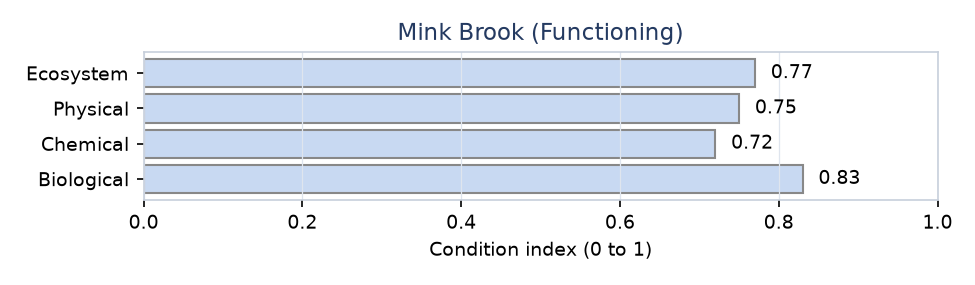
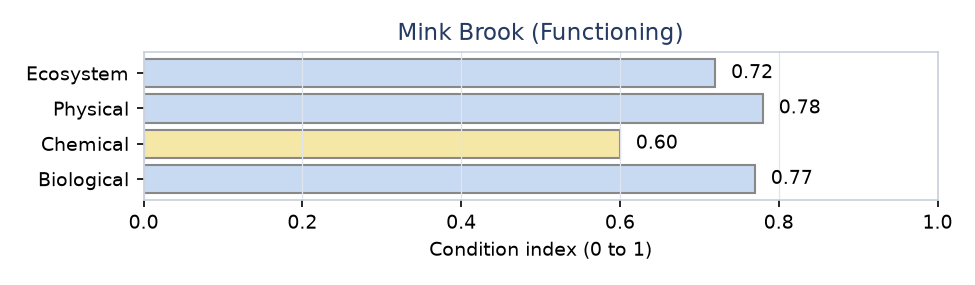
easi: regenerate documentation assets from the 16 September 2026 replay
build_doc_assets.py adds the Jemez River example summary, and the generated
validation tables and figures now come from the replay of the 17 verification
sites under the frozen criteria (method digest b2e3033116e3). The EASI
walkthrough reference section is regenerated from the catalog, and two site
pages drop wording that predates the revision.

Changed region(s): [[0.1231, 0.1965, 0.8615, 0.5614], [0.7692, 0.5614, 0.8923, 0.7018]]

diff --git a/apps/easi/scripts/build_doc_assets.py b/apps/easi/scripts/build_doc_assets.py
@@ -71,6 +71,7 @@ PHOTOS = {  # source filename in docs/Verification Sites -> figures/ name
 EXAMPLE_REPORTS = [
     ("MB", "Mink Brook", "example_high.png"),
     ("CC", "Cowart Creek", "example_low.png"),
+    ("JR", "Jemez River", "example_mid.png"),
 ]
 
 

diff --git a/docs/computation-engines.md b/docs/computation-engines.md
@@ -67,7 +67,7 @@ is resolved. Coverage toggles do not trigger lookup or affect readiness.
 
 | Tier | App | Policy |
 |---|---|---|
-| Screening | EASI | Within 150 ft of an NHDPlus V2 reach, the StreamCat lookup engine supplies watershed metrics in seconds. Elsewhere the STAF site engine calculates the HR reach watershed. Reach-keyed metrics, including low flow, substrate, and biological integrity, can use the nearest StreamCat reach downstream; their source details include the routed distance and drainage-area ratio. If the engine cannot compute the watershed, the watershed metrics are unavailable with guidance, never a stand-in. |
+| Screening | EASI | Within 150 ft of an NHDPlus V2 reach, the StreamCat lookup engine supplies watershed metrics in seconds. Elsewhere the STAF site engine calculates the HR reach watershed. Reach-keyed metrics, including the modeled benthic probability and the integrity fallbacks, can use the nearest StreamCat reach downstream; their source details include the routed distance and drainage-area ratio. If the engine cannot compute the watershed, the watershed metrics are unavailable with guidance, never a stand-in. |
 | Rapid | SFARI | Every click snaps to the high-resolution NHD. The site engine computes the HR reach watershed and every watershed value at every site. The StreamCat lookup engine supplies, by COMID, the EPA modeled indices that exist only per V2 reach (flow permanence, dewatered segments, barriers, nutrients) and stands in, labeled, for a watershed value the engine could not compute. On a stream outside V2 the COMID is the nearest StreamCat reach downstream, named with the routed distance and the drainage-area ratio. Direct services (gages, water quality, wetlands, dams) answer the rest. The assessor keeps every score. |
 | Detailed | DEEP | Every click snaps to the high-resolution NHD. The site engine computes the HR reach watershed at every site. Auto-pulled values follow the assessment metric by metric: a curve whose own `predictorSource` records engine predictors takes the site-engine value (every landscape metric, base-flow index and road-stream crossings included since engine 0.3.0), and every other curve takes the lookup-engine value by COMID that it was fitted on, so a mixed bundle scores both. On a stream outside V2 the COMID is the nearest StreamCat reach downstream, named with the routed distance and the drainage-area ratio. A value from the other engine is shown as reference and not scored. |
 | Detailed (builder) | StreamCurves | The predictor source is the one choice in the program: the StreamCat lookup engine by default, or the site engine, recorded in every build's provenance. An engine-sourced build also recomputes the scored landscape metrics with an engine analog (impervious, crop, wetland, road density, dam density, base-flow index, road-stream crossings) over the HR reach watershed at every training site, and stamps those curves as engine-fitted. Surface water storage is one combined wetland metric, woody plus herbaceous, the same sum EASI scores. The reference screen always runs on the lookup engine, keyed on each NRSA site's own archive COMID, so pool membership is decided on the reach the crew sampled, and the candidate panel is wadeable-only. |

diff --git a/apps/easi/docs/EASI_Documentation/_generated/site_coverage.md b/apps/easi/docs/EASI_Documentation/_generated/site_coverage.md
@@ -1,21 +1,21 @@
 | Site | State | Lat | Lon | Drainage area (km^2) | EASI ECI | EASI class | SFARI ECI | SFARI class | Note |
 |---|:--:|--:|--:|--:|--:|:--:|--:|:--:|---|
-| Slade Brook | NH | 43.7559 | -72.2225 | 6.3 | 0.64 | At-Risk | 0.94 | Func. |  |
-| Mink Brook | NH | 43.6899 | -72.2840 | 43.1 | 0.77 | Func. | 0.88 | Func. |  |
-| Poudre River | CO | 40.4479 | -104.8853 | 4130.4 | 0.57 | At-Risk | 0.87 | Func. |  |
-| Kenduskeag River | ME | 44.8144 | -68.7876 | 448.3 | 0.65 | At-Risk | 0.72 | Func. |  |
-| Durden Creek | MS | 32.3087 | -90.8669 | 10.0 | 0.49 | At-Risk | 0.63 | At-Risk |  |
-| Jemez River | NM | 35.3814 | -106.5264 | 2697.1 | 0.75 | Func. | 0.54 | At-Risk |  |
-| Sangamon River | IL | 40.0876 | -88.5491 | 1113.9 | 0.41 | At-Risk | 0.51 | At-Risk |  |
-| Trail Creek | GA | 33.9563 | -83.3650 | 32.9 | 0.48 | At-Risk | 0.46 | At-Risk |  |
+| Slade Brook | NH | 43.7559 | -72.2225 | 6.3 | 0.67 | At-Risk | 0.94 | Func. |  |
+| Mink Brook | NH | 43.6899 | -72.2840 | 43.1 | 0.72 | Func. | 0.88 | Func. |  |
+| Poudre River | CO | 40.4479 | -104.8853 | 4130.4 | 0.65 | At-Risk | 0.87 | Func. |  |
+| Kenduskeag River | ME | 44.8144 | -68.7876 | 448.3 | 0.61 | At-Risk | 0.72 | Func. |  |
+| Durden Creek | MS | 32.3087 | -90.8669 | 10.0 | 0.48 | At-Risk | 0.63 | At-Risk |  |
+| Jemez River | NM | 35.3814 | -106.5264 | 2697.1 | 0.73 | Func. | 0.54 | At-Risk |  |
+| Sangamon River | IL | 40.0876 | -88.5491 | 1113.9 | 0.56 | At-Risk | 0.51 | At-Risk |  |
+| Trail Creek | GA | 33.9563 | -83.3650 | 32.9 | 0.46 | At-Risk | 0.46 | At-Risk |  |
 | St Lucie River | FL | 27.3855 | -80.3428 | 608.0 | 0.44 | At-Risk | 0.43 | At-Risk |  |
-| Rio Grande | NM | 35.1322 | -106.6880 | 36655.4 | 0.65 | At-Risk | 0.43 | At-Risk |  |
-| Middle Creek | TN | 35.1306 | -85.3611 | 19.2 | 0.52 | At-Risk | 0.39 | At-Risk |  |
-| Mountain Creek | TN | 35.1354 | -85.3059 | 2.7 | 0.55 | At-Risk | 0.39 | At-Risk | SFARI dup of MiC |
-| Tributary to Sugar River | NH | 43.3675 | -72.3261 | 642.4 | 0.6 | At-Risk | 0.37 | Non-Func. |  |
-| Shoal Creek | TN | 35.1189 | -85.3403 | 3.9 | 0.49 | At-Risk | 0.35 | Non-Func. |  |
+| Rio Grande | NM | 35.1322 | -106.6880 | 36655.4 | 0.66 | At-Risk | 0.43 | At-Risk |  |
+| Middle Creek | TN | 35.1306 | -85.3611 | 19.2 | 0.56 | At-Risk | 0.39 | At-Risk |  |
+| Mountain Creek | TN | 35.1354 | -85.3059 | 2.7 | 0.54 | At-Risk | 0.39 | At-Risk | SFARI dup of MiC |
+| Tributary to Sugar River | NH | 43.3675 | -72.3261 | 642.4 | 0.54 | At-Risk | 0.37 | Non-Func. |  |
+| Shoal Creek | TN | 35.1189 | -85.3403 | 3.9 | 0.52 | At-Risk | 0.35 | Non-Func. |  |
 | Mary's Creek | TX | 29.5458 | -95.2644 | 33.9 | 0.39 | Non-Func. | 0.23 | Non-Func. |  |
-| Gila River | NM | 32.8138 | -108.6027 | 9.9 | 0.65 | At-Risk | 0.23 | Non-Func. | SFARI dup of MC |
-| Cowart Creek | TX | 29.5189 | -95.1929 | 35.8 | 0.39 | Non-Func. | 0.15 | Non-Func. |  |
+| Gila River | NM | 32.8138 | -108.6027 | 9.9 | 0.67 | At-Risk | 0.23 | Non-Func. | SFARI dup of MC |
+| Cowart Creek | TX | 29.5189 | -95.1929 | 35.8 | 0.42 | At-Risk | 0.15 | Non-Func. |  |
 
 : Verification sites with EASI and SFARI Ecosystem Condition Index. All twenty EASI functions computed at every site. {#tbl-coverage}

diff --git a/apps/easi/docs/EASI_Documentation/_generated/appendix_comparison.md b/apps/easi/docs/EASI_Documentation/_generated/appendix_comparison.md
@@ -1,21 +1,21 @@
 | Site | State | EASI ECI | SFARI ECI | EASI P/C/B | SFARI P/C/B | Note |
 |---|:--:|--:|--:|:--:|:--:|---|
-| Slade Brook | NH | 0.64 | 0.94 | 0.54/0.72/0.67 | 0.96/0.91/0.97 |  |
-| Mink Brook | NH | 0.77 | 0.88 | 0.75/0.72/0.83 | 0.84/0.93/0.87 |  |
-| Poudre River | CO | 0.57 | 0.87 | 0.61/0.49/0.6 | 0.87/0.88/0.86 |  |
-| Kenduskeag River | ME | 0.65 | 0.72 | 0.51/0.72/0.72 | 0.68/0.70/0.77 |  |
-| Durden Creek | MS | 0.49 | 0.63 | 0.45/0.51/0.52 | 0.66/0.65/0.57 |  |
-| Jemez River | NM | 0.75 | 0.54 | 0.75/0.71/0.77 | 0.60/0.54/0.48 |  |
-| Sangamon River | IL | 0.41 | 0.51 | 0.43/0.38/0.44 | 0.56/0.42/0.54 |  |
-| Trail Creek | GA | 0.48 | 0.46 | 0.42/0.5/0.51 | 0.44/0.48/0.48 |  |
-| St Lucie River | FL | 0.44 | 0.43 | 0.53/0.4/0.4 | 0.36/0.49/0.43 |  |
-| Rio Grande | NM | 0.65 | 0.43 | 0.57/0.67/0.73 | 0.38/0.52/0.39 |  |
-| Middle Creek | TN | 0.52 | 0.39 | 0.47/0.51/0.58 | 0.44/0.41/0.33 |  |
-| Mountain Creek | TN | 0.55 | 0.39 | 0.53/0.59/0.54 | 0.44/0.41/0.33 | SFARI dup of MiC |
-| Tributary to Sugar River | NH | 0.6 | 0.37 | 0.58/0.61/0.61 | 0.46/0.39/0.28 |  |
-| Shoal Creek | TN | 0.49 | 0.35 | 0.5/0.46/0.52 | 0.27/0.48/0.29 |  |
-| Mary's Creek | TX | 0.39 | 0.23 | 0.42/0.32/0.43 | 0.24/0.19/0.27 |  |
-| Gila River | NM | 0.65 | 0.23 | 0.57/0.67/0.73 | 0.24/0.19/0.27 | SFARI dup of MC |
-| Cowart Creek | TX | 0.39 | 0.15 | 0.42/0.37/0.38 | 0.13/0.15/0.18 |  |
+| Slade Brook | NH | 0.67 | 0.94 | 0.59/0.73/0.68 | 0.96/0.91/0.97 |  |
+| Mink Brook | NH | 0.72 | 0.88 | 0.78/0.6/0.77 | 0.84/0.93/0.87 |  |
+| Poudre River | CO | 0.65 | 0.87 | 0.64/0.51/0.79 | 0.87/0.88/0.86 |  |
+| Kenduskeag River | ME | 0.61 | 0.72 | 0.57/0.61/0.66 | 0.68/0.70/0.77 |  |
+| Durden Creek | MS | 0.48 | 0.63 | 0.48/0.46/0.52 | 0.66/0.65/0.57 |  |
+| Jemez River | NM | 0.73 | 0.54 | 0.73/0.71/0.77 | 0.60/0.54/0.48 |  |
+| Sangamon River | IL | 0.56 | 0.51 | 0.46/0.52/0.69 | 0.56/0.42/0.54 |  |
+| Trail Creek | GA | 0.46 | 0.46 | 0.47/0.45/0.46 | 0.44/0.48/0.48 |  |
+| St Lucie River | FL | 0.44 | 0.43 | 0.61/0.29/0.41 | 0.36/0.49/0.43 |  |
+| Rio Grande | NM | 0.66 | 0.43 | 0.62/0.62/0.74 | 0.38/0.52/0.39 |  |
+| Middle Creek | TN | 0.56 | 0.39 | 0.69/0.44/0.56 | 0.44/0.41/0.33 |  |
+| Mountain Creek | TN | 0.54 | 0.39 | 0.56/0.53/0.54 | 0.44/0.41/0.33 | SFARI dup of MiC |
+| Tributary to Sugar River | NH | 0.54 | 0.37 | 0.58/0.48/0.54 | 0.46/0.39/0.28 |  |
+| Shoal Creek | TN | 0.52 | 0.35 | 0.61/0.42/0.54 | 0.27/0.48/0.29 |  |
+| Mary's Creek | TX | 0.39 | 0.23 | 0.47/0.32/0.38 | 0.24/0.19/0.27 |  |
+| Gila River | NM | 0.67 | 0.23 | 0.59/0.68/0.74 | 0.24/0.19/0.27 | SFARI dup of MC |
+| Cowart Creek | TX | 0.42 | 0.15 | 0.53/0.34/0.4 | 0.13/0.15/0.18 |  |
 
 : Full EASI and SFARI comparison for every verification site (P/C/B = physical/chemical/biological sub-index). {#tbl-appendix}

diff --git a/docs/scoring/index.md b/docs/scoring/index.md
@@ -19,7 +19,7 @@ description: "How metrics roll up to functions, outcomes, and overall condition.
     <li>Each sub-index is normalized to 0–1 (÷ 15, rounded to 2 decimals).</li>
     <li>The <strong>Ecosystem Condition Index</strong> (0–1) is the average of the three sub-indices.</li>
   </ol>
-  <p>Most functions are rated from a single indicator per tier. Where a Screening-tier metric reads more than one indicator, the more limiting one governs the rating: low pressure through one pathway does not offset high pressure through another. EASI's Catchment hydrology metric is the clearest example, rating the worse of watershed impervious cover and agricultural cover. The <a href="{{ site.baseurl }}/walkthroughs/easi/">EASI metric reference</a> lists each indicator's boundaries and which one governed.</p>
+  <p>Most functions are rated from a single indicator per tier. Where a Screening-tier metric reads more than one indicator, the more limiting one governs the rating. A low level of pressure on one indicator cannot offset a high level on another, because the indicators are not averaged. EASI's Catchment hydrology metric is the clearest example, rating the worse of watershed impervious cover and agricultural cover. The <a href="{{ site.baseurl }}/walkthroughs/easi/">EASI metric reference</a> lists each indicator's boundaries and which one governed.</p>
   <table class="tier-comparison-table scoring-tier-table">
     <thead>
       <tr>

diff --git a/apps/easi/docs/EASI_Documentation/_generated/case_MC.md b/apps/easi/docs/EASI_Documentation/_generated/case_MC.md
@@ -1,4 +1,4 @@
-**EASI** ECI 0.39 (Physical 0.42, Chemical 0.32, Biological 0.43). **SFARI** ECI 0.23 (Physical 0.24, Chemical 0.19, Biological 0.27).
+**EASI** ECI 0.39 (Physical 0.47, Chemical 0.32, Biological 0.38). **SFARI** ECI 0.23 (Physical 0.24, Chemical 0.19, Biological 0.27).
 
 | Function | EASI rating | EASI score | SFARI score |
 |---|:--:|--:|--:|
@@ -8,8 +8,8 @@
 | Streamflow regime | Good | 13 | 2.5 |
 | Low flow and baseflow dynamics | Good | 13 | 6.5 |
 | High flow dynamics | Poor | 3 | 13.0 |
-| Floodplain connectivity | Fair | 8 | 0.0 |
-| Hyporheic connectivity | Poor | 3 | 2.0 |
+| Floodplain connectivity | Good | 13 | 0.0 |
+| Hyporheic connectivity | Fair | 8 | 2.0 |
 | Channel evolution | Poor | 3 | 1.0 |
 | Channel and floodplain dynamics | Poor | 3 | 1.0 |
 | Sediment continuity | Poor | 3 | 1.0 |
@@ -18,7 +18,7 @@
 | Nutrient cycling | Poor | 3 | 3.0 |
 | Water & soil quality | Fair | 8 | 3.0 |
 | Habitat provision | Poor | 3 | 5.0 |
-| Population support | Fair | 8 | 6.0 |
+| Population support | Poor | 3 | 6.0 |
 | Community dynamics | Poor | 3 | 3.0 |
 | Watershed connectivity | Good | 13 | 3.0 |
 

diff --git a/apps/easi/docs/EASI_Documentation/_generated/case_CC.md b/apps/easi/docs/EASI_Documentation/_generated/case_CC.md
@@ -1,4 +1,4 @@
-**EASI** ECI 0.39 (Physical 0.42, Chemical 0.37, Biological 0.38). **SFARI** ECI 0.15 (Physical 0.13, Chemical 0.15, Biological 0.18).
+**EASI** ECI 0.42 (Physical 0.53, Chemical 0.34, Biological 0.4). **SFARI** ECI 0.15 (Physical 0.13, Chemical 0.15, Biological 0.18).
 
 | Function | EASI rating | EASI score | SFARI score |
 |---|:--:|--:|--:|
@@ -8,13 +8,13 @@
 | Streamflow regime | Good | 13 | 2.0 |
 | Low flow and baseflow dynamics | Good | 13 | 3.5 |
 | High flow dynamics | Poor | 3 | 1.0 |
-| Floodplain connectivity | Poor | 3 | 1.0 |
-| Hyporheic connectivity | Poor | 3 | 1.0 |
+| Floodplain connectivity | Good | 13 | 1.0 |
+| Hyporheic connectivity | Good | 13 | 1.0 |
 | Channel evolution | Poor | 3 | 1.0 |
 | Channel and floodplain dynamics | Poor | 3 | 1.0 |
 | Sediment continuity | Poor | 3 | 1.0 |
 | Light & thermal regime | Poor | 3 | 2.0 |
-| Carbon processing | Fair | 8 | 3.0 |
+| Carbon processing | Poor | 3 | 3.0 |
 | Nutrient cycling | Poor | 3 | 2.0 |
 | Water & soil quality | Fair | 8 | 3.0 |
 | Habitat provision | Poor | 3 | 2.0 |

diff --git a/apps/easi/docs/EASI_Documentation/_generated/case_MB.md b/apps/easi/docs/EASI_Documentation/_generated/case_MB.md
@@ -1,4 +1,4 @@
-**EASI** ECI 0.77 (Physical 0.75, Chemical 0.72, Biological 0.83). **SFARI** ECI 0.88 (Physical 0.84, Chemical 0.93, Biological 0.87).
+**EASI** ECI 0.72 (Physical 0.78, Chemical 0.6, Biological 0.77). **SFARI** ECI 0.88 (Physical 0.84, Chemical 0.93, Biological 0.87).
 
 | Function | EASI rating | EASI score | SFARI score |
 |---|:--:|--:|--:|
@@ -13,11 +13,11 @@
 | Channel evolution | Good * | 13 | 12.0 |
 | Channel and floodplain dynamics | Good | 13 | 11.5 |
 | Sediment continuity | Fair | 8 | 12.0 |
-| Light & thermal regime | Good | 13 | 14.0 |
-| Carbon processing | Good | 13 | 14.0 |
+| Light & thermal regime | Fair | 8 | 14.0 |
+| Carbon processing | Fair | 8 | 14.0 |
 | Nutrient cycling | Good | 13 | 14.0 |
 | Water & soil quality | Poor | 3 | 15.0 |
-| Habitat provision | Good | 13 | 14.0 |
+| Habitat provision | Fair | 8 | 14.0 |
 | Population support | Good | 13 | 15.0 |
 | Community dynamics | Good | 13 | 12.0 |
 | Watershed connectivity | Good | 13 | 11.0 |

diff --git a/apps/easi/docs/EASI_Documentation/_generated/val_stats.md b/apps/easi/docs/EASI_Documentation/_generated/val_stats.md
@@ -1,8 +1,8 @@
 | Comparison | Pearson r | Mean abs diff |
 |---|:--:|:--:|
-| Ecosystem Condition Index | 0.63 | 0.16 |
-| Physical sub-index | 0.51 | 0.18 |
-| Chemical sub-index | 0.66 | 0.14 |
-| Biological sub-index | 0.55 | 0.18 |
+| Ecosystem Condition Index | 0.71 | 0.16 |
+| Physical sub-index | 0.34 | 0.20 |
+| Chemical sub-index | 0.65 | 0.15 |
+| Biological sub-index | 0.66 | 0.17 |
 
 : Agreement between EASI and SFARI across the non-duplicate sites. Index comparisons use the 0 to 1 scale. {#tbl-val-stats}

diff --git a/apps/easi/docs/EASI_Documentation/_generated/val_classification.md b/apps/easi/docs/EASI_Documentation/_generated/val_classification.md
@@ -1,7 +1,7 @@
 | SFARI \\ EASI | Non-Func. | At-Risk | Func. |
 |---|:--:|:--:|:--:|
-| Non-Func. | 2 | 2 | 0 |
+| Non-Func. | 1 | 3 | 0 |
 | At-Risk | 0 | 6 | 1 |
 | Func. | 0 | 3 | 1 |
 
-: Agreement on Ecosystem Condition Index class across 15 sites. Exact agreement 9 of 15. Within one class 15 of 15. {#tbl-val-class}
+: Agreement on Ecosystem Condition Index class across 15 sites. Exact agreement 8 of 15. Within one class 15 of 15. {#tbl-val-class}
